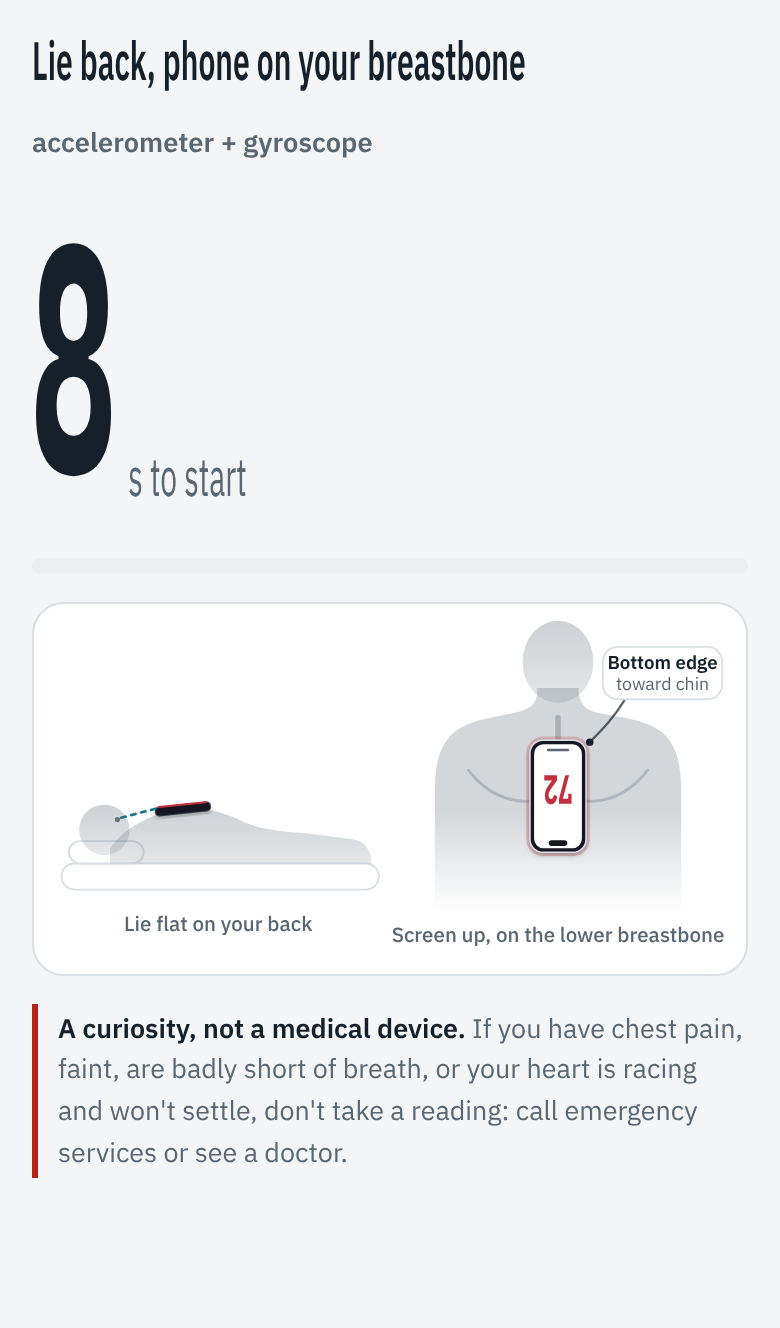
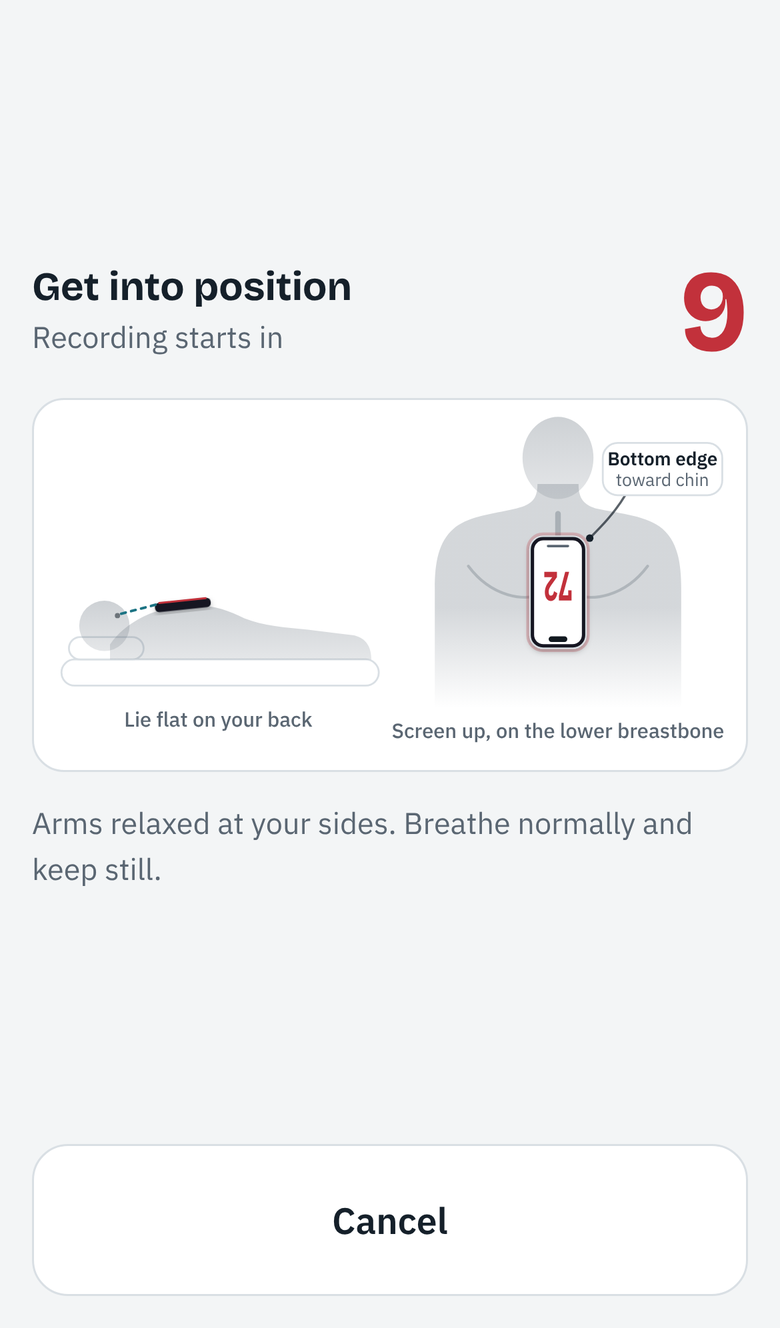
Start flow: safety note alone, clean countdown, tall text only while recording
- Age and sex move off the welcome screen into an optional About you section in the Guide
- Start shows the safety note alone for 3 s, then a 10 s countdown with the
  diagram and one line of instructions, in normal text
- Recording view: tall time left, tall heart rate, chest motion; the breathing
  widgets and sensor line are gone so it fits one screen

Claude-Session: https://claude.ai/code/session_01PqYzxjYGHHQ4LtS2t6Qgvf

diff --git a/index.html b/index.html
@@ -153,12 +153,19 @@ details.sim[open] summary { margin-bottom: 8px }
 figure { margin: 0; display: flex; flex-direction: column; gap: 4px; min-width: 0 }
 figcaption { font-size: .72rem; letter-spacing: .07em; text-transform: uppercase; color: var(--muted) }
 .trace canvas { width: 100%; height: 120px; display: block; background: var(--panel); border: 1px solid var(--line); border-radius: 12px }
-.live-row { display: grid; grid-template-columns: 120px minmax(0, 1fr); gap: 14px; align-items: end }
-.live-row .trace canvas { height: 120px }
-.breath svg { width: 120px; height: 120px }
-#breath-dot { transition: r .2s linear }
-.live-settle, .live-traces { display: flex; flex-direction: column; gap: 14px }
-.live-actions { display: grid; grid-template-columns: 1fr 1.6fr; gap: 12px; margin-top: auto }
+.live-settle, .live-rec, .live-traces { display: flex; flex-direction: column; gap: 14px }
+.live-settle { flex: 1; justify-content: center }
+.live-rec .trace canvas { height: 100px }
+.live-actions { display: grid; grid-auto-flow: column; grid-auto-columns: 1fr; gap: 12px; margin-top: auto }
+.live-warn { flex: 1; display: grid; place-items: center }
+.warn-card { border: 2px solid var(--alert); border-radius: 16px; padding: 22px 20px; display: flex; flex-direction: column; gap: 10px; background: color-mix(in srgb, var(--alert) 7%, var(--bg)) }
+.warn-card b { color: var(--alert); font: 700 1.5rem/1.15 var(--display) }
+.warn-card p { margin: 0; font-size: 1.05rem }
+.settle-top { display: flex; justify-content: space-between; align-items: center; gap: 12px }
+.settle-top h2 { margin: 0 }
+.settle-top p { margin: 2px 0 0 }
+#settle-count { font: 700 3.6rem/1 var(--display); font-variant-numeric: tabular-nums; color: var(--pulse); min-width: 2ch; text-align: right }
+.live-settle > p { margin: 0 }
 
 .signs { margin: 0; display: grid; grid-template-columns: repeat(auto-fit, minmax(230px, 1fr)); gap: 10px }
 .signs > div { background: var(--soft); border-radius: 10px; padding: 10px 12px; min-width: 0 }
@@ -299,16 +306,20 @@ details.more[open] > summary, details.more-charts[open] > summary { margin-botto
         <span>Sternum is a personal curiosity project. It can be wrong, and it may not notice a condition you already have, so a normal result never rules anything out.</span>
         <span>Chest pain, fainting, severe breathlessness or a racing heart that won't settle: call emergency services, don't take a reading.</span>
       </div>
-      <div class="about-you"><b class="small">About you (optional)</b><span class="small muted">Helps explain your numbers before you have a baseline. Stays on this phone.</span><div class="row" style="flex-wrap:nowrap;gap:8px"><select class="pf-age" aria-label="Age range"><option value="">Age range</option><option>Under 25</option><option>25–39</option><option>40–54</option><option>55–69</option><option>70+</option><option value="na">Prefer not to say</option></select><select class="pf-sex" aria-label="Sex"><option value="">Sex</option><option value="female">Female</option><option value="male">Male</option><option value="other">Other</option><option value="na">Prefer not to say</option></select></div></div>
       <button class="go" id="btn-welcome">I understand, let's start</button>
     </div>
   </section>
   <section class="live" id="live" hidden aria-live="polite">
     <div class="live-in">
-      <div class="live-head"><span id="live-phase" class="tall-sm">Get settled</span><span id="live-sensors" class="small muted"></span></div>
-      <div class="live-time"><span id="live-count" class="tall">10</span><span class="unit tall-sm" id="live-unit">s to start</span></div>
-      <div class="bar" aria-hidden="true"><i id="live-bar"></i></div>
-      <div id="live-settle" class="live-settle">
+      <div id="live-warn" class="live-warn">
+        <div class="warn-card" role="alert">
+          <b>A curiosity, not a medical device</b>
+          <p>Sternum can be wrong, and a normal result never rules anything out.</p>
+          <p>If you have chest pain, faint, are badly short of breath, or your heart is racing and won't settle, don't take a reading. Call emergency services or see a doctor.</p>
+        </div>
+      </div>
+      <div id="live-settle" class="live-settle" hidden>
+        <div class="settle-top"><div><h2>Get into position</h2><p class="muted">Recording starts in</p></div><span id="settle-count">10</span></div>
       <figure class="pose" aria-label="Lie flat on your back. Lay the phone screen up, lengthwise on the lower half of your breastbone, with its bottom edge toward your chin so you can glance down and read it.">
         <svg viewBox="0 0 360 176" aria-hidden="true">
           <defs>
@@ -352,17 +363,18 @@ details.more[open] > summary, details.more-charts[open] > summary { margin-botto
           </g>
         </svg>
       </figure>
-      <p class="disclaimer"><b>A curiosity, not a medical device.</b> If you have chest pain, faint, are badly short of breath, or your heart is racing and won't settle, don't take a reading: call emergency services or see a doctor.</p>
+        <p class="muted">Arms relaxed at your sides. Breathe normally and keep still.</p>
       </div>
-      <div class="live-hr"><span class="k tall-sm">Heart rate</span><span class="huge tall" id="live-bpm">--</span><span class="k tall-sm" id="live-bpm-note">finding your pulse</span></div>
-      <div id="live-traces" class="live-traces" hidden>
+      <div id="live-rec" class="live-rec" hidden>
+      <div class="live-head"><span id="live-phase" class="tall-sm">Recording</span></div>
+      <div class="live-time"><span id="live-count" class="tall">60</span><span class="unit tall-sm" id="live-unit">s left</span></div>
+      <div class="bar" aria-hidden="true"><i id="live-bar"></i></div>
+      <div class="live-hr" aria-label="Heart rate"><span class="huge tall" id="live-bpm">--</span><span class="k tall-sm" id="live-bpm-note">finding your pulse</span></div>
+      <div id="live-traces" class="live-traces">
       <figure class="trace"><figcaption>Chest motion</figcaption><canvas id="scope-heart" aria-label="Live chest motion"></canvas></figure>
-      <div class="live-row">
-        <figure class="breath"><figcaption>Breathing</figcaption><svg viewBox="0 0 120 120" aria-hidden="true"><circle cx="60" cy="60" r="56" fill="none" stroke="var(--line)" stroke-width="2"/><circle id="breath-dot" cx="60" cy="60" r="30" fill="var(--breath-soft)" stroke="var(--breath)" stroke-width="2"/></svg></figure>
-        <figure class="trace"><figcaption>Breathing trace</figcaption><canvas id="scope-breath" aria-label="Live breathing trace"></canvas></figure>
       </div>
       </div>
-      <div class="live-actions"><button class="big-quiet" id="btn-cancel">Cancel</button><button class="go" id="btn-stop">Finish now</button></div>
+      <div class="live-actions" id="live-actions" hidden><button class="big-quiet" id="btn-cancel">Cancel</button><button class="go" id="btn-stop">Finish now</button></div>
     </div>
   </section>
 
@@ -425,6 +437,12 @@ details.more[open] > summary, details.more-charts[open] > summary { margin-botto
           <li><b>REFLECS heart-failure study</b>: 1,003 people, a phone on the sternum for 2 minutes; it recognised heart failure with an AUC of 0.95, and the gyroscope beat the accelerometer (<a href="https://www.acc.org/latest-in-cardiology/journal-scans/2024/04/11/13/57/smartphone-based-recognition-of-hf" target="_blank" rel="noopener">JACC: Heart Failure, 2024</a>; <a href="https://clinicaltrials.gov/study/NCT04444583" target="_blank" rel="noopener">trial record</a>).</li>
           <li><b>Related consumer devices</b>: digital stethoscopes such as Eko analyse heart sounds; smartwatches flag irregular rhythm and breathing disturbances from wrist sensors.</li>
         </ul>
+      </section>
+      <div class="sep"></div>
+      <section id="settings">
+        <h2>About you (optional)</h2>
+        <p class="small muted">Your age range lets Sternum say what's typical before your own baseline builds up. Sex only fine-tunes the wording. Both stay on this phone, and you can leave them blank.</p>
+        <div class="about-you" id="pf-settings"><div class="row" style="flex-wrap:nowrap;gap:8px"><select class="pf-age" aria-label="Age range"><option value="">Age range</option><option>Under 25</option><option>25–39</option><option>40–54</option><option>55–69</option><option>70+</option><option value="na">Prefer not to say</option></select><select class="pf-sex" aria-label="Sex"><option value="">Sex</option><option value="female">Female</option><option value="male">Male</option><option value="other">Other</option><option value="na">Prefer not to say</option></select></div><div class="row"><button id="btn-pf-save">Save</button><span class="small muted" id="pf-saved" hidden>Saved</span></div></div>
       </section>
       <div class="sep"></div>
       <section>
@@ -1674,9 +1692,10 @@ $('#btn-live').onclick = async () => {
   const AC = window.AudioContext || window.webkitAudioContext; let ac = null; try { ac = new AC(); ac.resume && ac.resume(); } catch { }
   const motionAsk = typeof DeviceMotionEvent !== 'undefined' && typeof DeviceMotionEvent.requestPermission === 'function' ? DeviceMotionEvent.requestPermission().catch(() => 'denied') : Promise.resolve('granted');
   $('#start-msg').hidden = true;
-  const ui = { live: $('#live'), phase: $('#live-phase'), count: $('#live-count'), unit: $('#live-unit'), bar: $('#live-bar'), bpm: $('#live-bpm'), bpmNote: $('#live-bpm-note'), sensors: $('#live-sensors'), stop: $('#btn-stop'), dot: $('#breath-dot') };
-  ui.live.hidden = false; document.body.style.overflow = 'hidden'; $('#live-settle').hidden = false; $('#live-traces').hidden = true;
-  ui.phase.textContent = 'Asking for sensor access'; ui.count.textContent = ''; ui.unit.textContent = ''; ui.bpm.textContent = '--'; ui.bpmNote.textContent = 'finding your pulse'; ui.bar.style.width = '0'; ui.stop.disabled = true;
+  const ui = { live: $('#live'), phase: $('#live-phase'), count: $('#live-count'), unit: $('#live-unit'), bar: $('#live-bar'), bpm: $('#live-bpm'), bpmNote: $('#live-bpm-note'), settleCount: $('#settle-count'), stop: $('#btn-stop') };
+  const tShown = performance.now(), show = id => ['#live-warn', '#live-settle', '#live-rec'].forEach(k => $(k).hidden = k !== id);
+  ui.live.hidden = false; document.body.style.overflow = 'hidden'; show('#live-warn'); $('#live-actions').hidden = true; ui.stop.hidden = true;
+  ui.settleCount.textContent = '10'; ui.bpm.textContent = '--'; ui.bpmNote.textContent = 'finding your pulse'; ui.bar.style.width = '0'; ui.stop.disabled = true;
 
   // chimes should sound even with the ring/silent switch on
   try { if (navigator.audioSession) navigator.audioSession.type = 'playback'; } catch { }
@@ -1684,8 +1703,8 @@ $('#btn-live').onclick = async () => {
 
   const M = { t: [], ax: [], ay: [], az: [], gx: [], gy: [], gz: [], tx: [], ty: [], tz: [] };
   const R = { t: [], gx: [], gy: [], az: [] };          // rolling 14 s for the live heart rate
-  const scope = [], breathHist = [];
-  let recording = false, t0 = 0, motionSeen = false, hasGyro = false, filt = null, fsEst = 60, lpT = null, slowT = null;
+  const scope = [];
+  let recording = false, t0 = 0, motionSeen = false, hasGyro = false, filt = null, fsEst = 60;
   const now = () => performance.now() / 1000;
   const onMotion = e => {
     const tn = e.timeStamp > 0 ? e.timeStamp / 1000 : now();
@@ -1695,13 +1714,6 @@ $('#btn-live').onclick = async () => {
     if (!filt) { const hi = Math.min(20, fsEst * 0.4); filt = [bqStream(bqCo('hp', 4, fsEst)), bqStream(bqCo('lp', hi, fsEst))]; }
     const raw = hasGyro ? (r.beta || 0) : (a.z || 0);
     scope.push(filt[1](filt[0](raw))); if (scope.length > fsEst * 6) scope.shift();
-    // breathing: chest tilt, smoothed, minus its slow drift
-    if (g.z != null) {
-      const tilt = Math.atan2(g.y || 0, g.z) + Math.atan2(g.x || 0, g.z);
-      const k1 = 1 - Math.exp(-2 * Math.PI * 0.6 / fsEst), k2 = 1 - Math.exp(-2 * Math.PI * 0.04 / fsEst);
-      lpT = lpT == null ? tilt : lpT + k1 * (tilt - lpT); slowT = slowT == null ? tilt : slowT + k2 * (lpT - slowT);
-      breathHist.push(lpT - slowT); if (breathHist.length > fsEst * 15) breathHist.shift();
-    }
     R.t.push(tn); R.gx.push(r.beta || 0); R.gy.push(r.gamma || 0); R.az.push(a.z || 0);
     while (R.t.length && R.t[0] < tn - 14) { R.t.shift(); R.gx.shift(); R.gy.shift(); R.az.shift(); }
     if (!recording) return;
@@ -1730,7 +1742,9 @@ $('#btn-live').onclick = async () => {
       : 'This browser did not give the page any motion data. Open Sternum on your phone (Safari on iPhone, Chrome on Android) over https and allow motion access when asked.');
     return;
   }
-  ui.sensors.textContent = hasGyro ? 'accelerometer + gyroscope' : 'accelerometer';
+  // the safety note gets the screen to itself for 3 s
+  await new Promise(r => setTimeout(r, Math.max(0, 3000 - (performance.now() - tShown))));
+  show('#live-settle'); $('#live-actions').hidden = false;
 
   const css = getComputedStyle(document.documentElement);
   const col = n => css.getPropertyValue(n).trim() || '#c2313b';
@@ -1759,12 +1773,11 @@ $('#btn-live').onclick = async () => {
       const tn = now();
       if (phase === 'settle') {
         const left = SETTLE - (tn - tStart);
-        ui.phase.textContent = 'Lie back, phone on your breastbone';
-        ui.count.textContent = Math.max(1, Math.ceil(left)); ui.unit.textContent = 's to start';
-        if (left <= 0) { phase = 'rec'; recording = true; t0 = tn; chime(ac, START_CHIME, 0, 1.2); buzz(1); $('#live-settle').hidden = true; $('#live-traces').hidden = false; }
+        ui.settleCount.textContent = Math.max(1, Math.ceil(left));
+        if (left <= 0) { phase = 'rec'; recording = true; t0 = tn; chime(ac, START_CHIME, 0, 1.2); buzz(1); show('#live-rec'); ui.stop.hidden = false; }
       } else {
         const el = tn - t0;
-        ui.phase.textContent = 'Recording. Breathe normally, keep still';
+        ui.phase.textContent = 'Recording. Keep still';
         ui.count.textContent = Math.max(0, Math.ceil(DUR - el)); ui.unit.textContent = 's left';
         ui.bar.style.width = Math.min(100, 100 * el / DUR) + '%';
         ui.stop.disabled = el < 20;
@@ -1773,16 +1786,10 @@ $('#btn-live').onclick = async () => {
       if (tn - lastHR > 2 && R.t.length > 300) {
         lastHR = tn;
         const q = DSP.quickHR(R.t, hasGyro ? [R.gx, R.gy, R.az] : [R.az]);
-        if (q && q.q >= 0.3) { ui.bpm.textContent = Math.round(q.hr); ui.bpmNote.textContent = q.q >= 0.5 ? 'bpm, strong signal' : 'bpm, weak signal'; }
+        if (q && q.q >= 0.3) { ui.bpm.textContent = Math.round(q.hr); ui.bpmNote.textContent = q.q >= 0.5 ? 'bpm' : 'bpm, weak signal'; }
         else { ui.bpm.textContent = '--'; ui.bpmNote.textContent = 'finding your pulse, keep still'; }
       }
       drawTrace($('#scope-heart'), scope, col('--pulse'));
-      drawTrace($('#scope-breath'), breathHist, col('--breath'));
-      if (breathHist.length > 10) {
-        let lo = Infinity, hi = -Infinity; for (const v of breathHist) { lo = Math.min(lo, v); hi = Math.max(hi, v); }
-        const f = hi > lo ? (breathHist[breathHist.length - 1] - lo) / (hi - lo) : 0.5;
-        ui.dot.setAttribute('r', (18 + 36 * f).toFixed(1));
-      }
       requestAnimationFrame(frame);
     };
     requestAnimationFrame(frame);
@@ -1801,9 +1808,11 @@ $('#btn-live').onclick = async () => {
 
 /* ---------- start ---------- */
 S.sessions = loadLocal();
-const showWelcome = () => { fillProfile($('#welcome')); $('#welcome').hidden = false; document.body.style.overflow = 'hidden'; };
-$('#btn-welcome').onclick = () => { saveProfile($('#welcome')); renderTodos(); $('#welcome').hidden = true; document.body.style.overflow = ''; try { localStorage.setItem('sternum.welcomed', '1'); } catch { } };
+const showWelcome = () => { $('#welcome').hidden = false; document.body.style.overflow = 'hidden'; };
+$('#btn-welcome').onclick = () => { $('#welcome').hidden = true; document.body.style.overflow = ''; try { localStorage.setItem('sternum.welcomed', '1'); } catch { } };
 $('#btn-intro').onclick = showWelcome;
+fillProfile($('#pf-settings'));
+$('#btn-pf-save').onclick = () => { saveProfile($('#pf-settings')); renderTodos(); $('#pf-saved').hidden = false; setTimeout(() => $('#pf-saved').hidden = true, 1800); };
 let welcomed = false; try { welcomed = !!localStorage.getItem('sternum.welcomed'); } catch { }
 if (!welcomed) showWelcome();
 addEventListener('beforeinstallprompt', e => { e.preventDefault(); installEvt = e; document.querySelectorAll('.btn-install').forEach(b => b.hidden = false); });

diff --git a/src/page.html b/src/page.html
@@ -153,12 +153,19 @@ details.sim[open] summary { margin-bottom: 8px }
 figure { margin: 0; display: flex; flex-direction: column; gap: 4px; min-width: 0 }
 figcaption { font-size: .72rem; letter-spacing: .07em; text-transform: uppercase; color: var(--muted) }
 .trace canvas { width: 100%; height: 120px; display: block; background: var(--panel); border: 1px solid var(--line); border-radius: 12px }
-.live-row { display: grid; grid-template-columns: 120px minmax(0, 1fr); gap: 14px; align-items: end }
-.live-row .trace canvas { height: 120px }
-.breath svg { width: 120px; height: 120px }
-#breath-dot { transition: r .2s linear }
-.live-settle, .live-traces { display: flex; flex-direction: column; gap: 14px }
-.live-actions { display: grid; grid-template-columns: 1fr 1.6fr; gap: 12px; margin-top: auto }
+.live-settle, .live-rec, .live-traces { display: flex; flex-direction: column; gap: 14px }
+.live-settle { flex: 1; justify-content: center }
+.live-rec .trace canvas { height: 100px }
+.live-actions { display: grid; grid-auto-flow: column; grid-auto-columns: 1fr; gap: 12px; margin-top: auto }
+.live-warn { flex: 1; display: grid; place-items: center }
+.warn-card { border: 2px solid var(--alert); border-radius: 16px; padding: 22px 20px; display: flex; flex-direction: column; gap: 10px; background: color-mix(in srgb, var(--alert) 7%, var(--bg)) }
+.warn-card b { color: var(--alert); font: 700 1.5rem/1.15 var(--display) }
+.warn-card p { margin: 0; font-size: 1.05rem }
+.settle-top { display: flex; justify-content: space-between; align-items: center; gap: 12px }
+.settle-top h2 { margin: 0 }
+.settle-top p { margin: 2px 0 0 }
+#settle-count { font: 700 3.6rem/1 var(--display); font-variant-numeric: tabular-nums; color: var(--pulse); min-width: 2ch; text-align: right }
+.live-settle > p { margin: 0 }
 
 .signs { margin: 0; display: grid; grid-template-columns: repeat(auto-fit, minmax(230px, 1fr)); gap: 10px }
 .signs > div { background: var(--soft); border-radius: 10px; padding: 10px 12px; min-width: 0 }
@@ -299,16 +306,20 @@ details.more[open] > summary, details.more-charts[open] > summary { margin-botto
         <span>Sternum is a personal curiosity project. It can be wrong, and it may not notice a condition you already have, so a normal result never rules anything out.</span>
         <span>Chest pain, fainting, severe breathlessness or a racing heart that won't settle: call emergency services, don't take a reading.</span>
       </div>
-      <div class="about-you"><b class="small">About you (optional)</b><span class="small muted">Helps explain your numbers before you have a baseline. Stays on this phone.</span><div class="row" style="flex-wrap:nowrap;gap:8px"><select class="pf-age" aria-label="Age range"><option value="">Age range</option><option>Under 25</option><option>25–39</option><option>40–54</option><option>55–69</option><option>70+</option><option value="na">Prefer not to say</option></select><select class="pf-sex" aria-label="Sex"><option value="">Sex</option><option value="female">Female</option><option value="male">Male</option><option value="other">Other</option><option value="na">Prefer not to say</option></select></div></div>
       <button class="go" id="btn-welcome">I understand, let's start</button>
     </div>
   </section>
   <section class="live" id="live" hidden aria-live="polite">
     <div class="live-in">
-      <div class="live-head"><span id="live-phase" class="tall-sm">Get settled</span><span id="live-sensors" class="small muted"></span></div>
-      <div class="live-time"><span id="live-count" class="tall">10</span><span class="unit tall-sm" id="live-unit">s to start</span></div>
-      <div class="bar" aria-hidden="true"><i id="live-bar"></i></div>
-      <div id="live-settle" class="live-settle">
+      <div id="live-warn" class="live-warn">
+        <div class="warn-card" role="alert">
+          <b>A curiosity, not a medical device</b>
+          <p>Sternum can be wrong, and a normal result never rules anything out.</p>
+          <p>If you have chest pain, faint, are badly short of breath, or your heart is racing and won't settle, don't take a reading. Call emergency services or see a doctor.</p>
+        </div>
+      </div>
+      <div id="live-settle" class="live-settle" hidden>
+        <div class="settle-top"><div><h2>Get into position</h2><p class="muted">Recording starts in</p></div><span id="settle-count">10</span></div>
       <figure class="pose" aria-label="Lie flat on your back. Lay the phone screen up, lengthwise on the lower half of your breastbone, with its bottom edge toward your chin so you can glance down and read it.">
         <svg viewBox="0 0 360 176" aria-hidden="true">
           <defs>
@@ -352,17 +363,18 @@ details.more[open] > summary, details.more-charts[open] > summary { margin-botto
           </g>
         </svg>
       </figure>
-      <p class="disclaimer"><b>A curiosity, not a medical device.</b> If you have chest pain, faint, are badly short of breath, or your heart is racing and won't settle, don't take a reading: call emergency services or see a doctor.</p>
+        <p class="muted">Arms relaxed at your sides. Breathe normally and keep still.</p>
       </div>
-      <div class="live-hr"><span class="k tall-sm">Heart rate</span><span class="huge tall" id="live-bpm">--</span><span class="k tall-sm" id="live-bpm-note">finding your pulse</span></div>
-      <div id="live-traces" class="live-traces" hidden>
+      <div id="live-rec" class="live-rec" hidden>
+      <div class="live-head"><span id="live-phase" class="tall-sm">Recording</span></div>
+      <div class="live-time"><span id="live-count" class="tall">60</span><span class="unit tall-sm" id="live-unit">s left</span></div>
+      <div class="bar" aria-hidden="true"><i id="live-bar"></i></div>
+      <div class="live-hr" aria-label="Heart rate"><span class="huge tall" id="live-bpm">--</span><span class="k tall-sm" id="live-bpm-note">finding your pulse</span></div>
+      <div id="live-traces" class="live-traces">
       <figure class="trace"><figcaption>Chest motion</figcaption><canvas id="scope-heart" aria-label="Live chest motion"></canvas></figure>
-      <div class="live-row">
-        <figure class="breath"><figcaption>Breathing</figcaption><svg viewBox="0 0 120 120" aria-hidden="true"><circle cx="60" cy="60" r="56" fill="none" stroke="var(--line)" stroke-width="2"/><circle id="breath-dot" cx="60" cy="60" r="30" fill="var(--breath-soft)" stroke="var(--breath)" stroke-width="2"/></svg></figure>
-        <figure class="trace"><figcaption>Breathing trace</figcaption><canvas id="scope-breath" aria-label="Live breathing trace"></canvas></figure>
       </div>
       </div>
-      <div class="live-actions"><button class="big-quiet" id="btn-cancel">Cancel</button><button class="go" id="btn-stop">Finish now</button></div>
+      <div class="live-actions" id="live-actions" hidden><button class="big-quiet" id="btn-cancel">Cancel</button><button class="go" id="btn-stop">Finish now</button></div>
     </div>
   </section>
 
@@ -425,6 +437,12 @@ details.more[open] > summary, details.more-charts[open] > summary { margin-botto
           <li><b>REFLECS heart-failure study</b>: 1,003 people, a phone on the sternum for 2 minutes; it recognised heart failure with an AUC of 0.95, and the gyroscope beat the accelerometer (<a href="https://www.acc.org/latest-in-cardiology/journal-scans/2024/04/11/13/57/smartphone-based-recognition-of-hf" target="_blank" rel="noopener">JACC: Heart Failure, 2024</a>; <a href="https://clinicaltrials.gov/study/NCT04444583" target="_blank" rel="noopener">trial record</a>).</li>
           <li><b>Related consumer devices</b>: digital stethoscopes such as Eko analyse heart sounds; smartwatches flag irregular rhythm and breathing disturbances from wrist sensors.</li>
         </ul>
+      </section>
+      <div class="sep"></div>
+      <section id="settings">
+        <h2>About you (optional)</h2>
+        <p class="small muted">Your age range lets Sternum say what's typical before your own baseline builds up. Sex only fine-tunes the wording. Both stay on this phone, and you can leave them blank.</p>
+        <div class="about-you" id="pf-settings"><div class="row" style="flex-wrap:nowrap;gap:8px"><select class="pf-age" aria-label="Age range"><option value="">Age range</option><option>Under 25</option><option>25–39</option><option>40–54</option><option>55–69</option><option>70+</option><option value="na">Prefer not to say</option></select><select class="pf-sex" aria-label="Sex"><option value="">Sex</option><option value="female">Female</option><option value="male">Male</option><option value="other">Other</option><option value="na">Prefer not to say</option></select></div><div class="row"><button id="btn-pf-save">Save</button><span class="small muted" id="pf-saved" hidden>Saved</span></div></div>
       </section>
       <div class="sep"></div>
       <section>
@@ -1073,9 +1091,10 @@ $('#btn-live').onclick = async () => {
   const AC = window.AudioContext || window.webkitAudioContext; let ac = null; try { ac = new AC(); ac.resume && ac.resume(); } catch { }
   const motionAsk = typeof DeviceMotionEvent !== 'undefined' && typeof DeviceMotionEvent.requestPermission === 'function' ? DeviceMotionEvent.requestPermission().catch(() => 'denied') : Promise.resolve('granted');
   $('#start-msg').hidden = true;
-  const ui = { live: $('#live'), phase: $('#live-phase'), count: $('#live-count'), unit: $('#live-unit'), bar: $('#live-bar'), bpm: $('#live-bpm'), bpmNote: $('#live-bpm-note'), sensors: $('#live-sensors'), stop: $('#btn-stop'), dot: $('#breath-dot') };
-  ui.live.hidden = false; document.body.style.overflow = 'hidden'; $('#live-settle').hidden = false; $('#live-traces').hidden = true;
-  ui.phase.textContent = 'Asking for sensor access'; ui.count.textContent = ''; ui.unit.textContent = ''; ui.bpm.textContent = '--'; ui.bpmNote.textContent = 'finding your pulse'; ui.bar.style.width = '0'; ui.stop.disabled = true;
+  const ui = { live: $('#live'), phase: $('#live-phase'), count: $('#live-count'), unit: $('#live-unit'), bar: $('#live-bar'), bpm: $('#live-bpm'), bpmNote: $('#live-bpm-note'), settleCount: $('#settle-count'), stop: $('#btn-stop') };
+  const tShown = performance.now(), show = id => ['#live-warn', '#live-settle', '#live-rec'].forEach(k => $(k).hidden = k !== id);
+  ui.live.hidden = false; document.body.style.overflow = 'hidden'; show('#live-warn'); $('#live-actions').hidden = true; ui.stop.hidden = true;
+  ui.settleCount.textContent = '10'; ui.bpm.textContent = '--'; ui.bpmNote.textContent = 'finding your pulse'; ui.bar.style.width = '0'; ui.stop.disabled = true;
 
   // chimes should sound even with the ring/silent switch on
   try { if (navigator.audioSession) navigator.audioSession.type = 'playback'; } catch { }
@@ -1083,8 +1102,8 @@ $('#btn-live').onclick = async () => {
 
   const M = { t: [], ax: [], ay: [], az: [], gx: [], gy: [], gz: [], tx: [], ty: [], tz: [] };
   const R = { t: [], gx: [], gy: [], az: [] };          // rolling 14 s for the live heart rate
-  const scope = [], breathHist = [];
-  let recording = false, t0 = 0, motionSeen = false, hasGyro = false, filt = null, fsEst = 60, lpT = null, slowT = null;
+  const scope = [];
+  let recording = false, t0 = 0, motionSeen = false, hasGyro = false, filt = null, fsEst = 60;
   const now = () => performance.now() / 1000;
   const onMotion = e => {
     const tn = e.timeStamp > 0 ? e.timeStamp / 1000 : now();
@@ -1094,13 +1113,6 @@ $('#btn-live').onclick = async () => {
     if (!filt) { const hi = Math.min(20, fsEst * 0.4); filt = [bqStream(bqCo('hp', 4, fsEst)), bqStream(bqCo('lp', hi, fsEst))]; }
     const raw = hasGyro ? (r.beta || 0) : (a.z || 0);
     scope.push(filt[1](filt[0](raw))); if (scope.length > fsEst * 6) scope.shift();
-    // breathing: chest tilt, smoothed, minus its slow drift
-    if (g.z != null) {
-      const tilt = Math.atan2(g.y || 0, g.z) + Math.atan2(g.x || 0, g.z);
-      const k1 = 1 - Math.exp(-2 * Math.PI * 0.6 / fsEst), k2 = 1 - Math.exp(-2 * Math.PI * 0.04 / fsEst);
-      lpT = lpT == null ? tilt : lpT + k1 * (tilt - lpT); slowT = slowT == null ? tilt : slowT + k2 * (lpT - slowT);
-      breathHist.push(lpT - slowT); if (breathHist.length > fsEst * 15) breathHist.shift();
-    }
     R.t.push(tn); R.gx.push(r.beta || 0); R.gy.push(r.gamma || 0); R.az.push(a.z || 0);
     while (R.t.length && R.t[0] < tn - 14) { R.t.shift(); R.gx.shift(); R.gy.shift(); R.az.shift(); }
     if (!recording) return;
@@ -1129,7 +1141,9 @@ $('#btn-live').onclick = async () => {
       : 'This browser did not give the page any motion data. Open Sternum on your phone (Safari on iPhone, Chrome on Android) over https and allow motion access when asked.');
     return;
   }
-  ui.sensors.textContent = hasGyro ? 'accelerometer + gyroscope' : 'accelerometer';
+  // the safety note gets the screen to itself for 3 s
+  await new Promise(r => setTimeout(r, Math.max(0, 3000 - (performance.now() - tShown))));
+  show('#live-settle'); $('#live-actions').hidden = false;
 
   const css = getComputedStyle(document.documentElement);
   const col = n => css.getPropertyValue(n).trim() || '#c2313b';
@@ -1158,12 +1172,11 @@ $('#btn-live').onclick = async () => {
       const tn = now();
       if (phase === 'settle') {
         const left = SETTLE - (tn - tStart);
-        ui.phase.textContent = 'Lie back, phone on your breastbone';
-        ui.count.textContent = Math.max(1, Math.ceil(left)); ui.unit.textContent = 's to start';
-        if (left <= 0) { phase = 'rec'; recording = true; t0 = tn; chime(ac, START_CHIME, 0, 1.2); buzz(1); $('#live-settle').hidden = true; $('#live-traces').hidden = false; }
+        ui.settleCount.textContent = Math.max(1, Math.ceil(left));
+        if (left <= 0) { phase = 'rec'; recording = true; t0 = tn; chime(ac, START_CHIME, 0, 1.2); buzz(1); show('#live-rec'); ui.stop.hidden = false; }
       } else {
         const el = tn - t0;
-        ui.phase.textContent = 'Recording. Breathe normally, keep still';
+        ui.phase.textContent = 'Recording. Keep still';
         ui.count.textContent = Math.max(0, Math.ceil(DUR - el)); ui.unit.textContent = 's left';
         ui.bar.style.width = Math.min(100, 100 * el / DUR) + '%';
         ui.stop.disabled = el < 20;
@@ -1172,16 +1185,10 @@ $('#btn-live').onclick = async () => {
       if (tn - lastHR > 2 && R.t.length > 300) {
         lastHR = tn;
         const q = DSP.quickHR(R.t, hasGyro ? [R.gx, R.gy, R.az] : [R.az]);
-        if (q && q.q >= 0.3) { ui.bpm.textContent = Math.round(q.hr); ui.bpmNote.textContent = q.q >= 0.5 ? 'bpm, strong signal' : 'bpm, weak signal'; }
+        if (q && q.q >= 0.3) { ui.bpm.textContent = Math.round(q.hr); ui.bpmNote.textContent = q.q >= 0.5 ? 'bpm' : 'bpm, weak signal'; }
         else { ui.bpm.textContent = '--'; ui.bpmNote.textContent = 'finding your pulse, keep still'; }
       }
       drawTrace($('#scope-heart'), scope, col('--pulse'));
-      drawTrace($('#scope-breath'), breathHist, col('--breath'));
-      if (breathHist.length > 10) {
-        let lo = Infinity, hi = -Infinity; for (const v of breathHist) { lo = Math.min(lo, v); hi = Math.max(hi, v); }
-        const f = hi > lo ? (breathHist[breathHist.length - 1] - lo) / (hi - lo) : 0.5;
-        ui.dot.setAttribute('r', (18 + 36 * f).toFixed(1));
-      }
       requestAnimationFrame(frame);
     };
     requestAnimationFrame(frame);
@@ -1200,9 +1207,11 @@ $('#btn-live').onclick = async () => {
 
 /* ---------- start ---------- */
 S.sessions = loadLocal();
-const showWelcome = () => { fillProfile($('#welcome')); $('#welcome').hidden = false; document.body.style.overflow = 'hidden'; };
-$('#btn-welcome').onclick = () => { saveProfile($('#welcome')); renderTodos(); $('#welcome').hidden = true; document.body.style.overflow = ''; try { localStorage.setItem('sternum.welcomed', '1'); } catch { } };
+const showWelcome = () => { $('#welcome').hidden = false; document.body.style.overflow = 'hidden'; };
+$('#btn-welcome').onclick = () => { $('#welcome').hidden = true; document.body.style.overflow = ''; try { localStorage.setItem('sternum.welcomed', '1'); } catch { } };
 $('#btn-intro').onclick = showWelcome;
+fillProfile($('#pf-settings'));
+$('#btn-pf-save').onclick = () => { saveProfile($('#pf-settings')); renderTodos(); $('#pf-saved').hidden = false; setTimeout(() => $('#pf-saved').hidden = true, 1800); };
 let welcomed = false; try { welcomed = !!localStorage.getItem('sternum.welcomed'); } catch { }
 if (!welcomed) showWelcome();
 addEventListener('beforeinstallprompt', e => { e.preventDefault(); installEvt = e; document.querySelectorAll('.btn-install').forEach(b => b.hidden = false); });

diff --git a/README.md b/README.md
@@ -8,7 +8,8 @@ Sternum is a web app that turns a phone's motion sensors into a heart and breath
 
 <p>
   <img src="docs/record.png" width="200" alt="Record screen">
-  <img src="docs/countdown.png" width="200" alt="Countdown screen with the placement diagram and safety note">
+  <img src="docs/warning.png" width="200" alt="Safety note shown alone for three seconds">
+  <img src="docs/countdown.png" width="200" alt="Countdown screen with the placement diagram">
   <img src="docs/recording.png" width="200" alt="Recording screen with a tall countdown and heart rate">
   <img src="docs/reading.png" width="200" alt="A reading explained in plain English">
   <img src="docs/trends.png" width="200" alt="Trends against your usual range">
@@ -45,7 +46,7 @@ Add it to the Home Screen. Safari deletes a website's data if you don't visit fo
 
 ## How a reading works
 
-Tap **Start reading** and allow motion access. You get a 10-second countdown to settle, showing where the phone goes. Then a chime, and the recording (60 s, 90 s or 2 min) with a live pulse, chest motion and breathing view. The countdown and heart rate are drawn tall and narrow, so they stay legible when you glance down the phone from your chin. A rising three-note chime means it's done, and the screen stays awake throughout.
+Tap **Start reading** and allow motion access. A safety note shows on its own for 3 seconds, then a 10-second countdown to get into position, with a diagram of where the phone goes. Then a chime, and the recording (60 s, 90 s or 2 min) with a live pulse and chest motion view. During the recording the time left and heart rate are drawn tall and narrow, so they stay legible when you glance down the phone from your chin. A rising three-note chime means it's done, and the screen stays awake throughout.
 
 ## Developing
 
